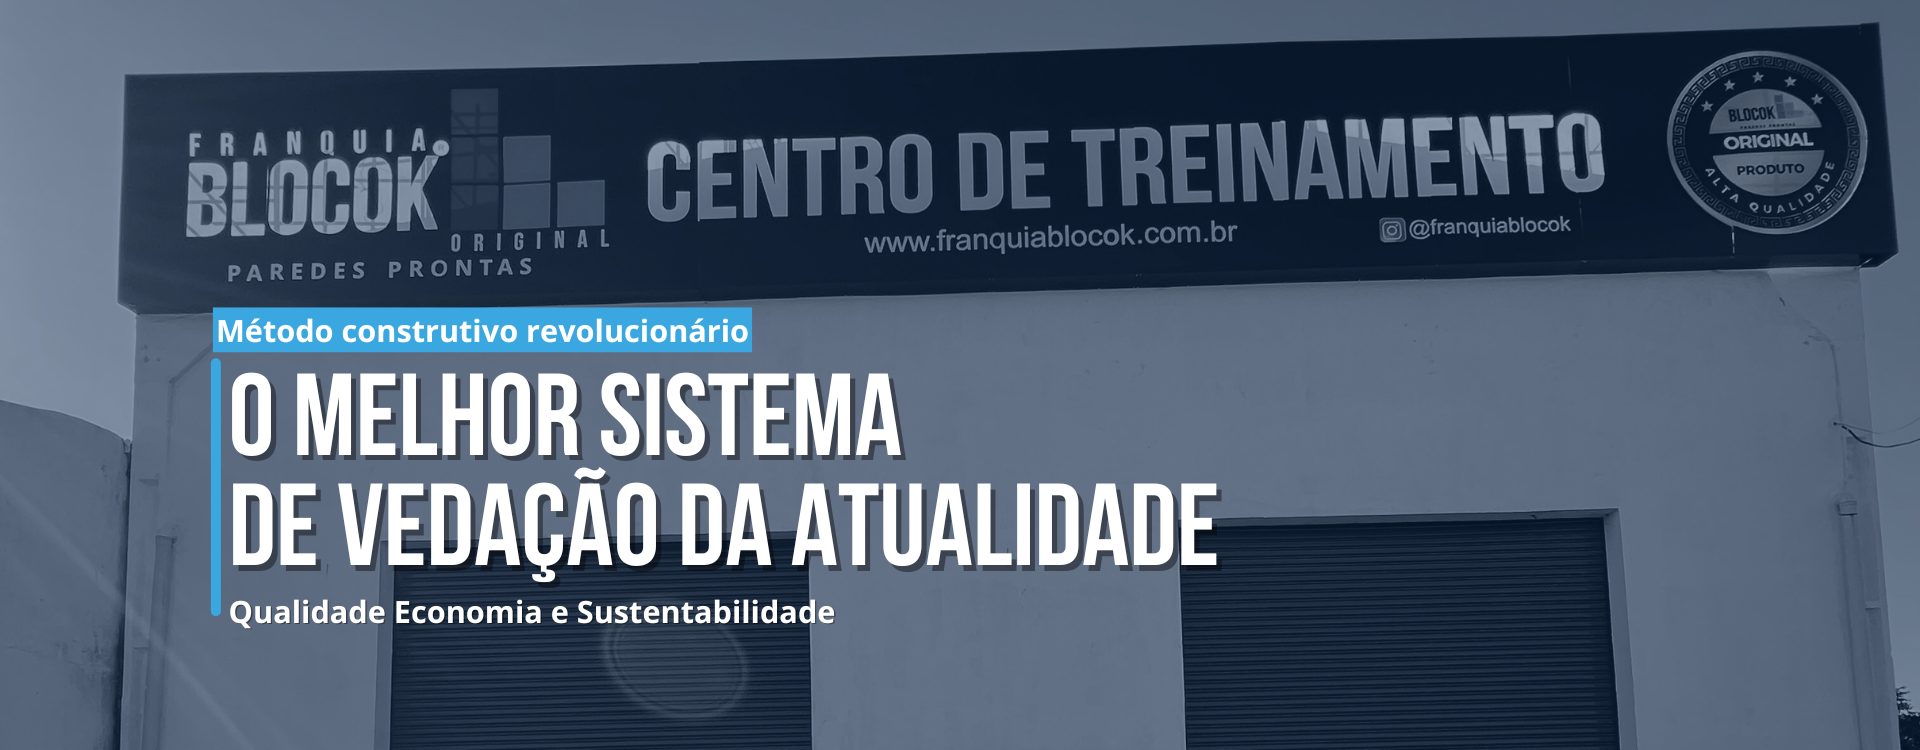
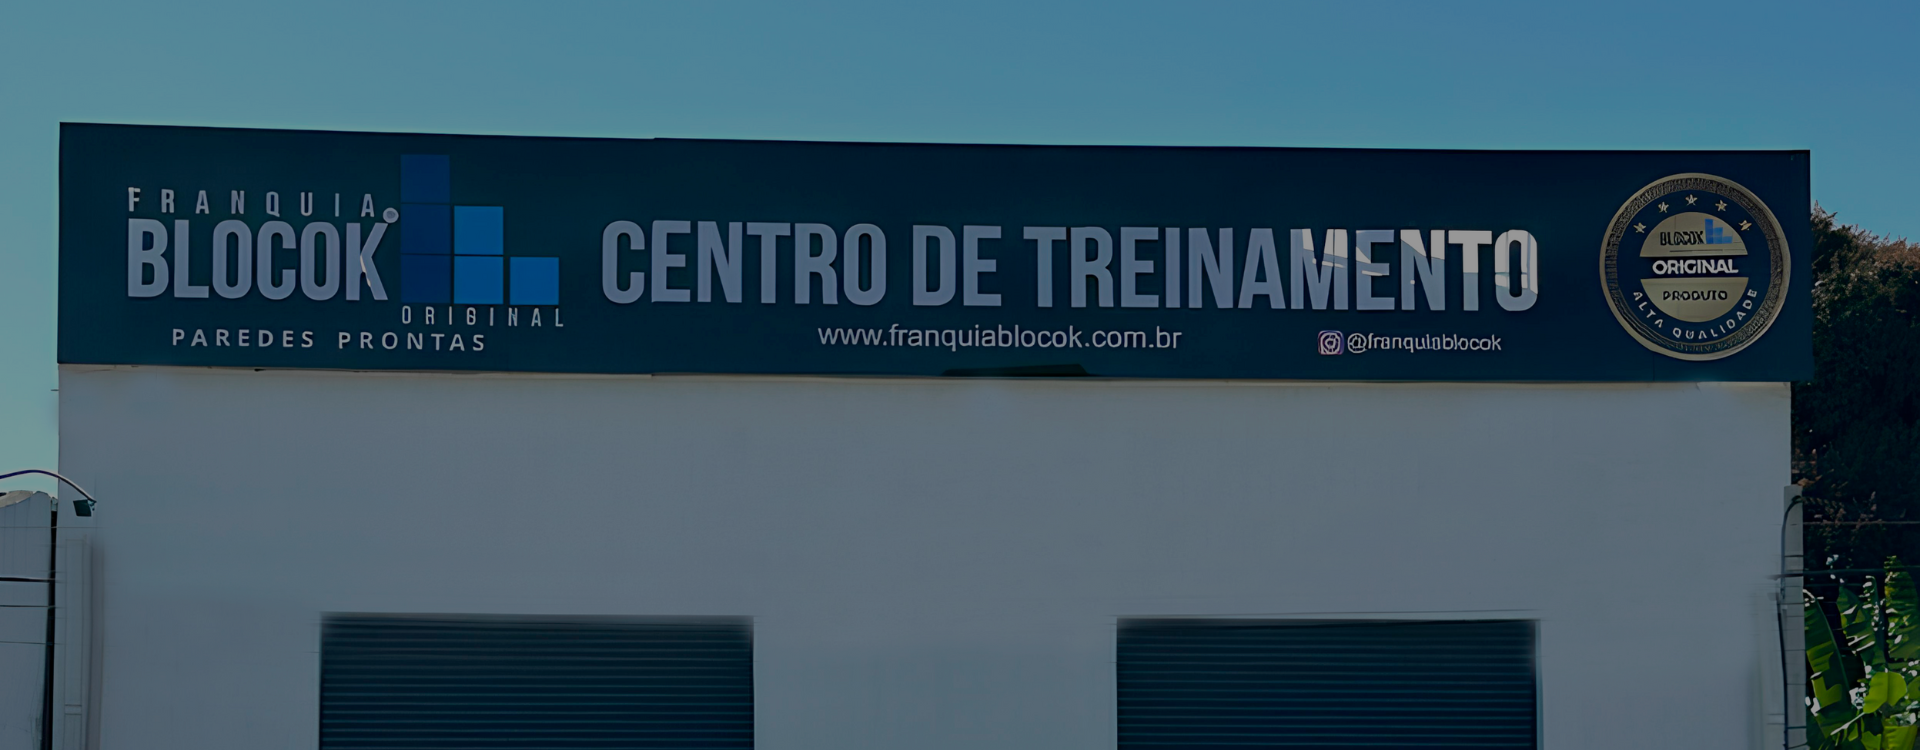
ajustes gerais

diff --git a/src/components/Estrutura.tsx b/src/components/Estrutura.tsx
@@ -1,6 +1,6 @@
 import { EstruturaProps } from '@/configs/estrutura';
 import Image from 'next/image';
-import Link from 'next/link';
+import malha from '/malha.png';
 
 export function Estrutura({
   textPlacaConcreto,
@@ -32,6 +32,20 @@ export function Estrutura({
                 {TextPlacaEPS}
               </p>
             </div>
+          </div>
+          <div className="w-full lg:w-1/2 flex justify-end weight-400">
+            <div className="w-full lg:w-[90%]">
+              <Image {...image} />
+            </div>
+          </div>
+        </div>
+        <div className="w-full flex flex-col-reverse justify-around lg:flex-row gap-4 lg:gap-8 items-center mt-10 lg:mt-20">
+          <div className="w-full lg:w-1/2 flex justify-center weight-400">
+            <div className="w-full lg:w-[70%]">
+              <Image {...imageMalha} />
+            </div>
+          </div>
+          <div className="w-full lg:w-1/2 flex flex-col gap-">
             <div className="border-solid border-4 border-black  mx-auto w-full lg:w-[80%] my-8 ">
               <div className="flex flex-col gap-4 bg-blue-100 items-center py-10  justify-center border-solid border-4 border-white">
                 <p className="text-5xl font-bold font-bebas uppercase">
@@ -41,19 +55,6 @@ export function Estrutura({
                   O blocok não tem malha de aço em sua estrutura
                 </p>
               </div>
-            </div>
-            {/* <div className="flex justify-start">
-              <Link
-                href="/sobre"
-                className="text-md lg:text-xl font-semibold text-blue-300 uppercase hover:text-blue-300"
-              >
-                Saiba mais
-              </Link>
-            </div> */}
-          </div>
-          <div className="w-full lg:w-1/2 flex justify-end weight-400">
-            <div className="w-full lg:w-[90%]">
-              <Image {...image} />
             </div>
           </div>
         </div>

diff --git a/src/components/BannerPrincipal.tsx b/src/components/BannerPrincipal.tsx
@@ -4,12 +4,27 @@ import Image from 'next/image';
 export function BannerPrincipal({ image, imageMobile }: BannerPrincipalProps) {
   return (
     <section className="w-full">
-      <div className="flex items-center justify-center relative w-full">
-        <div className="w-full h-auto md:flex hidden">
-          <Image {...image} width={1920} height={1080} />
-        </div>
-        <div className="w-full h-auto md:hidden">
-          <Image {...imageMobile} width={640} height={785} />
+      <div
+        className="w-full min-h-screen bg-cover bg-center"
+        style={{ backgroundImage: `url(${image.src})` }}
+      >
+        <div className="absolute top-1/2 flex items-center justify-center">
+          <div className="container mx-auto text-white text-center px-3 lg:px-20">
+            <div className="flex justify-center items-start flex-col w-full">
+              <p className="text-lg font-bold mb-2 text-left bg-blue-300 py-1 px-2 ">
+                Método Construtivo Revolucionário
+              </p>
+              <div className="w-full flex flex-col border border-r-0 border-y-0 border-l-[6px] border-blue-300 pl-4 border-rounded">
+                <h2 className="text-4xl md:text-5xl lg:text-7xl text-left font-bold mb-4  uppercase font-bebas tracking-wide">
+                  O melhor sistema <br />
+                  de vedação da atualidade.
+                </h2>
+                <p className="text-base md:text-lg text-left font-bold">
+                  Qualidade, Economia e Sustentabilidade
+                </p>
+              </div>
+            </div>
+          </div>
         </div>
       </div>
     </section>

diff --git a/src/configs/sobre.ts b/src/configs/sobre.ts
@@ -7,15 +7,11 @@ export type SobreProps = {
 };
 
 export const sobre: SobreProps = {
-  description: `O BLOCOK ORIGINAL é um sistema construtivo revolucionário de
-              paredes prontas. È composto por duas placas cimentícias de micro
-              concreto de 15mm cada e uma placa de EPS industrial do tipo F com tecnologia 
-              antichama, com tamanho padrão de 90x90cm e variações
-              em sua espessura que são: 10cm, 13cm, 15cm e 20cm. O BLOCOK
-              possui alta resistência de 12MPa, também proporciona maior
-              conforto por ser termoacústico.`,
+  description: `O BLOCOK ORIGINAL é um sistema construtivo revolucionário de paredes prontas. É composto por duas placas cimentícias de microconcreto de 15mm cada e uma placa de EPS industrial do tipo F com tecnologia antichama, com tamanho padrão de 90x90cm e variações em sua espessura, que são: 10cm, 13cm, 15cm e 20cm. O BLOCOK possui alta resistência de 12MPa e também proporciona maior conforto por ser termoacústico.
+
+Estrutura do Blocok Original`,
   image: {
-    src: '/blocok-01.jpg',
+    src: '/blocok-01.png',
     alt: 'Blocok',
     width: 580,
     height: 500,

diff --git a/src/components/Obras.tsx b/src/components/Obras.tsx
@@ -3,7 +3,7 @@ import { SliderObras } from './Slider';
 
 export function Obras({ images }: ObrasProps) {
   return (
-    <section className="mt-8 lg:mt-0 w-full max-w-[100vw]">
+    <section className="mt-8 lg:mt-6 w-full max-w-[100vw]">
       <div className="container mx-auto px-4 py-6 lg:py-12 flex gap-4 items-center flex-col">
         <h2 className="text-5xl lg:text-7xl 2xl:text-8xl uppercase font-bebas tracking-wide w-full text-center mb-14 font-light">
           OBRAS EXECUTADAS COM{' '}

diff --git a/src/configs/estrutura.ts b/src/configs/estrutura.ts
@@ -17,8 +17,8 @@ export const estrutura: EstruturaProps = {
   imageMalha: {
     src: '/malha.png',
     alt: 'Placa de concreto',
-    width: 180,
-    height: 180,
+    width: 580,
+    height: 500,
   },
   image: {
     src: '/blocok-02.png',
